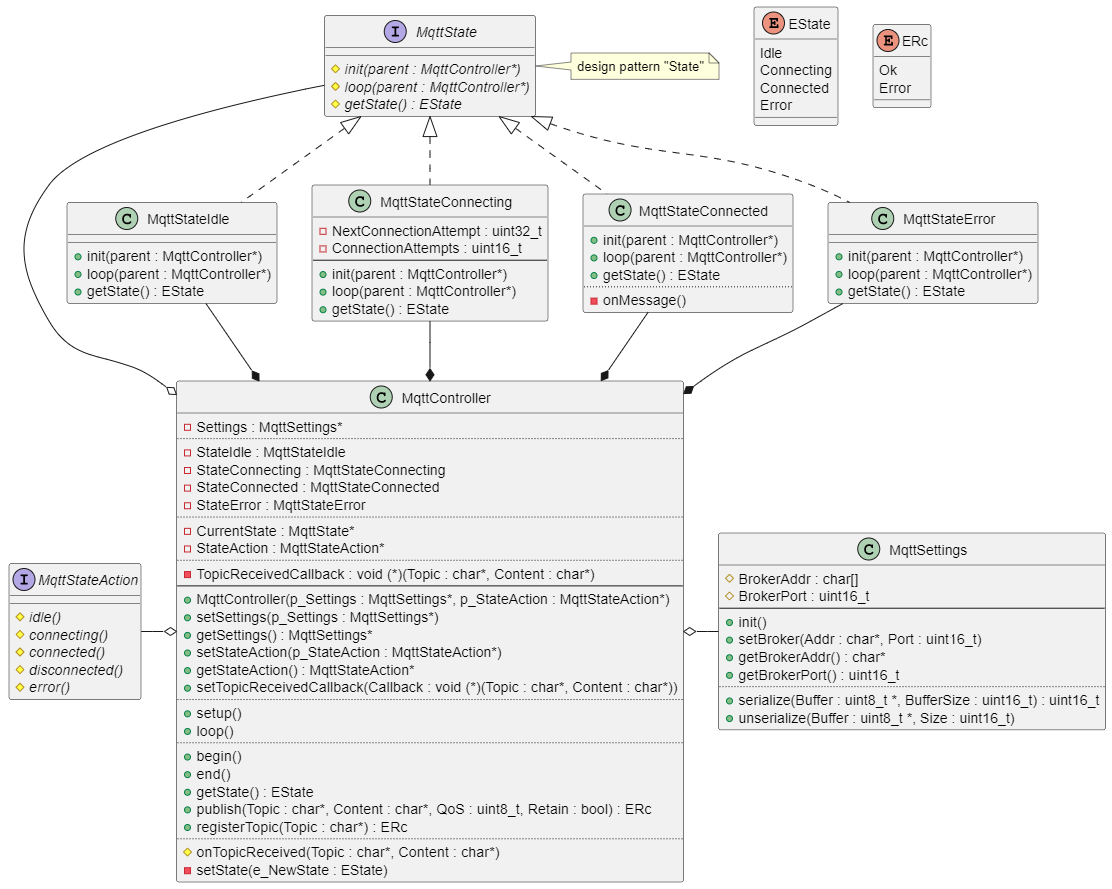
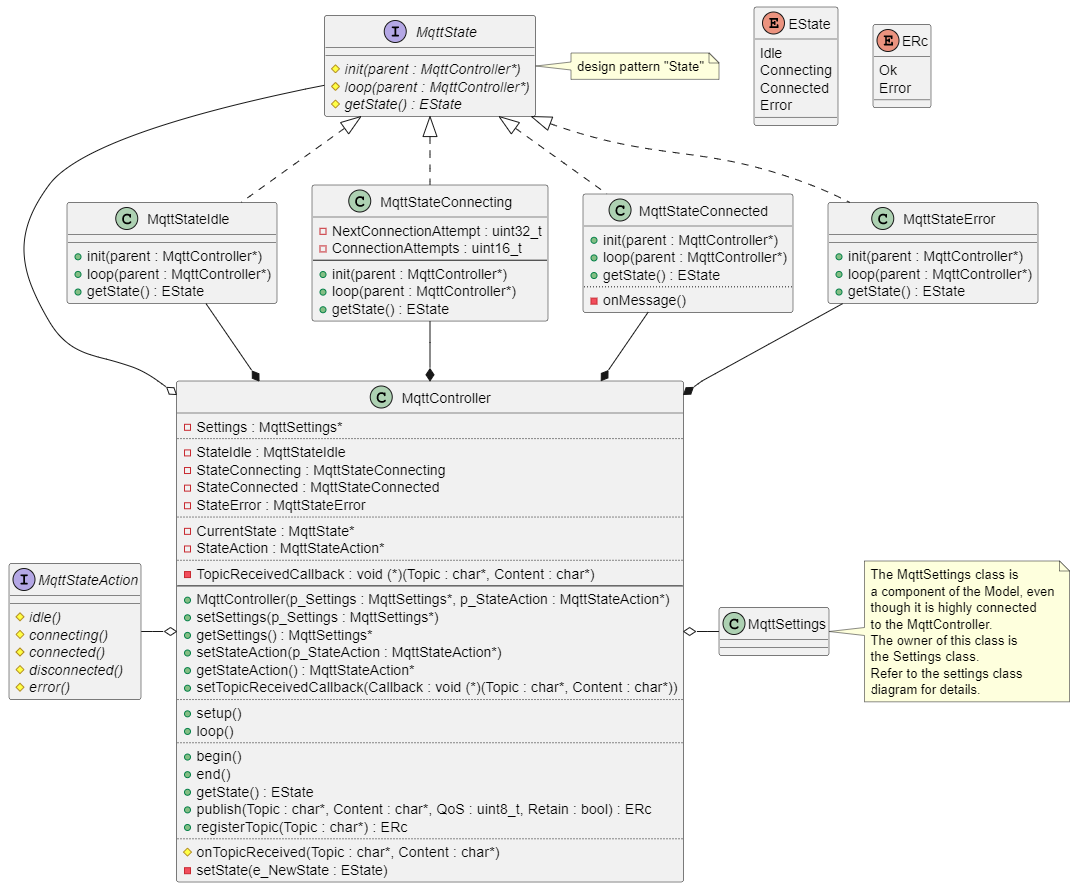
documentation added and improved

diff --git a/src/model/settings.cpp b/src/model/settings.cpp
@@ -27,6 +27,11 @@ void Settings::begin(void)
 }
 
 
+void Settings::end(void)
+{
+}
+
+
 
 Settings::ERc Settings::save(void)
 {

diff --git a/src/model/settings.h b/src/model/settings.h
@@ -26,6 +26,7 @@ public:
   Settings(void);
 
   void begin(void);
+  void end(void);
 
   ERc save(void);
   ERc load(void);

diff --git a/README.md b/README.md
@@ -22,7 +22,7 @@ The Internet of Things (IoT) refers to devices equipped with sensors or actuator
 
 ![IoT overview](doc/iot_overview.png)
 
-An example MQTT server which can be used for test purposes is [broker.hivemq.com]with the default TCP port 1883. A web interface for testing is available here: [MQTT browser client](https://www.hivemq.com/demos/websocket-client/).
+An example MQTT server which can be used for test purposes is [broker.hivemq.com](broker.hivemq.com) with the default TCP port 1883. A web interface for testing is available here: [MQTT browser client](https://www.hivemq.com/demos/websocket-client/).
 
 ### Providing information
 
@@ -154,14 +154,9 @@ To receive commands, the device subscribes to the _"iotdevice/30973702185336/com
 
 
 
-# Bootup process
-
-![Bootup activity diagram](doc/activity_diagram_bootup.png)
-
-
 # Software Architecture
 
-The overal software architecture is the MVC architecture.
+The overarching software architecture adheres to the Model–View–Controller (MVC) design pattern.
 
 > Model–view–controller (MVC) is a software design pattern commonly used for 
 > developing user interfaces that divides the related program logic into 
@@ -170,20 +165,39 @@ The overal software architecture is the MVC architecture.
 > to and accepts it from the user, and the Controller software linking the two.
 > --- [Model-view-controller. (2023, November 20). In Wikipedia, The Free Encyclopedia. Retrieved 12:56, November 20, 2023](https://en.wikipedia.org/w/index.php?title=Model-view-controller)
 
-In this case, the _Model_ is responsible to hold and to store the configuration data in the internal flash memory of the ESP32 module. 
+In this context, the _Model_ is responsible for holding and storing configuration data in the internal flash memory of the ESP8266/ESP32 module using the Arduino framework.
 
-The _View_ is responsible for handling the 
+The _View_ manages the user interface, encompassing both the text-based command interface on the RS232/USB port and the MQTT command interface. The View features a viewFacade, the sole class accessed by the controller. The viewFacade, in turn, utilizes the Shell library, providing shell commands and MQTT commands.
 
+The _Controller_ offers a controllerFacade, the exclusive class accessed from the main function or the view. The controllerFacade initializes and utilizes the WIFI controller, MQTT controller, and the hardware controller, abstracting access to the actual hardware via the Arduino framework.
 
 ![Component diagram](doc/component_diagram.png)
 
+
 ## Model
 
-### settings
+Within the _Model_, the pivotal component is the Settings class, serving as the facade for all storable settings in the device. The separation of WIFI and MQTT settings into distinct classes enhances modularity and clarity. These classes facilitate configuration adjustments by the WIFI and MQTT controllers, each offering serialization and deserialization methods. This design ensures the Settings class can manage settings without delving into the internal structure of each.
+
+![Settings Class Diagram](doc/class_diagram_settings.png)
+
+### Settings
+
+The Settings class encompasses both WIFI and MQTT settings, providing methods for saving, loading, and clearing settings using the Arduino framework. Additionally, it supplies pointers to the WIFI and MQTT settings classes, directly utilized by the corresponding controllers.
 
 ### WIFI settings
 
+The WIFI settings class serves as the storage unit for the WIFI controller, accommodating up to four WIFI networks with SSID and password. The priority of networks is determined by their index, with the most recently added having the highest priority. If more than four settings are added, the earliest networks are discarded.   
+
 ### MQTT settings
+
+For the MQTT controller, the MQTT settings class serves as the storage entity, allowing configuration of the broker and port number (defaulting to 1883). 
+
+### Data storage in flash
+
+All settings are stored in flash, commencing with a magic number (0x1ACFFC1D) and a data version number. The WIFI settings, serialized by the WIFI settings class, precede the MQTT settings. The whole data settings section is protected by a 4-byte CRC. This approach ensures secure and organized storage of crucial device configurations.
+
+![Settings in Flash](doc/map_flash_settings.png)
+
 
 ## View
 
@@ -210,6 +224,10 @@ The _View_ is responsible for handling the
 
 #### MQTT actions
 
+
+# Bootup process
+
+![Bootup activity diagram](doc/activity_diagram_bootup.png)
 
 
 
